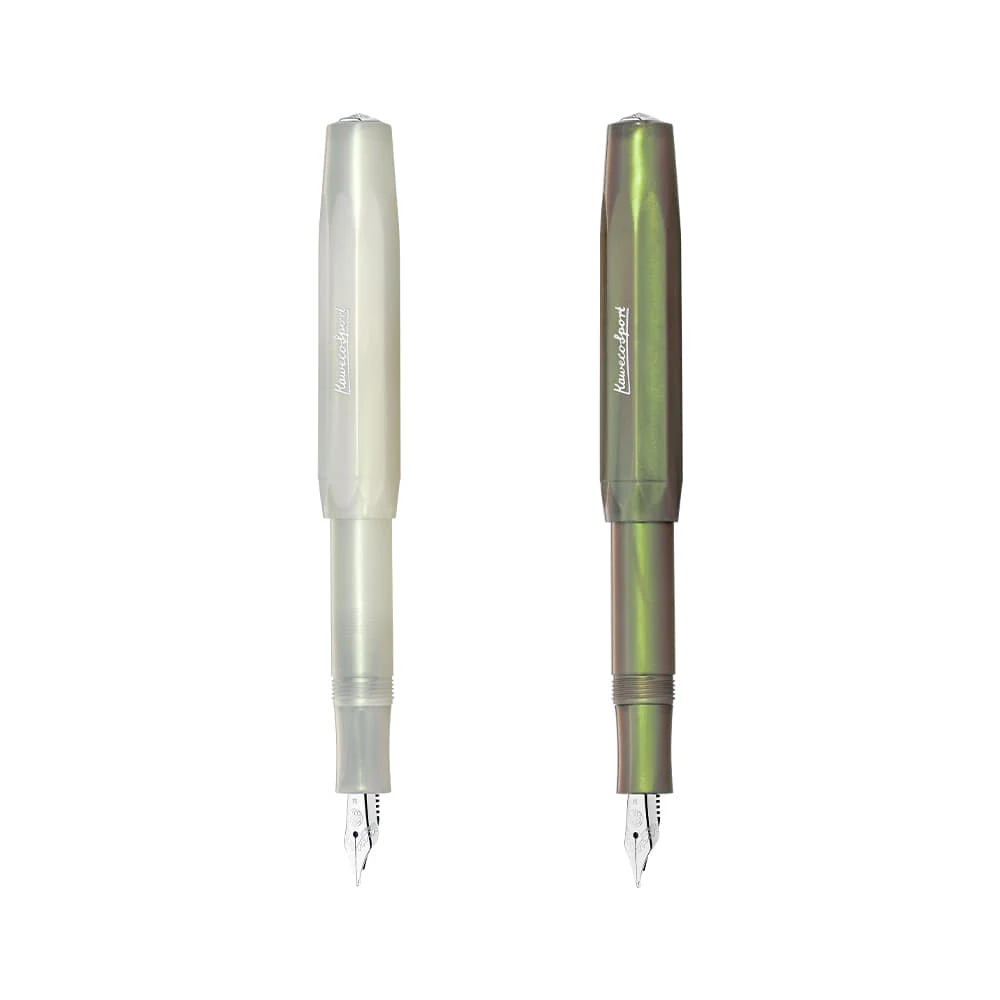
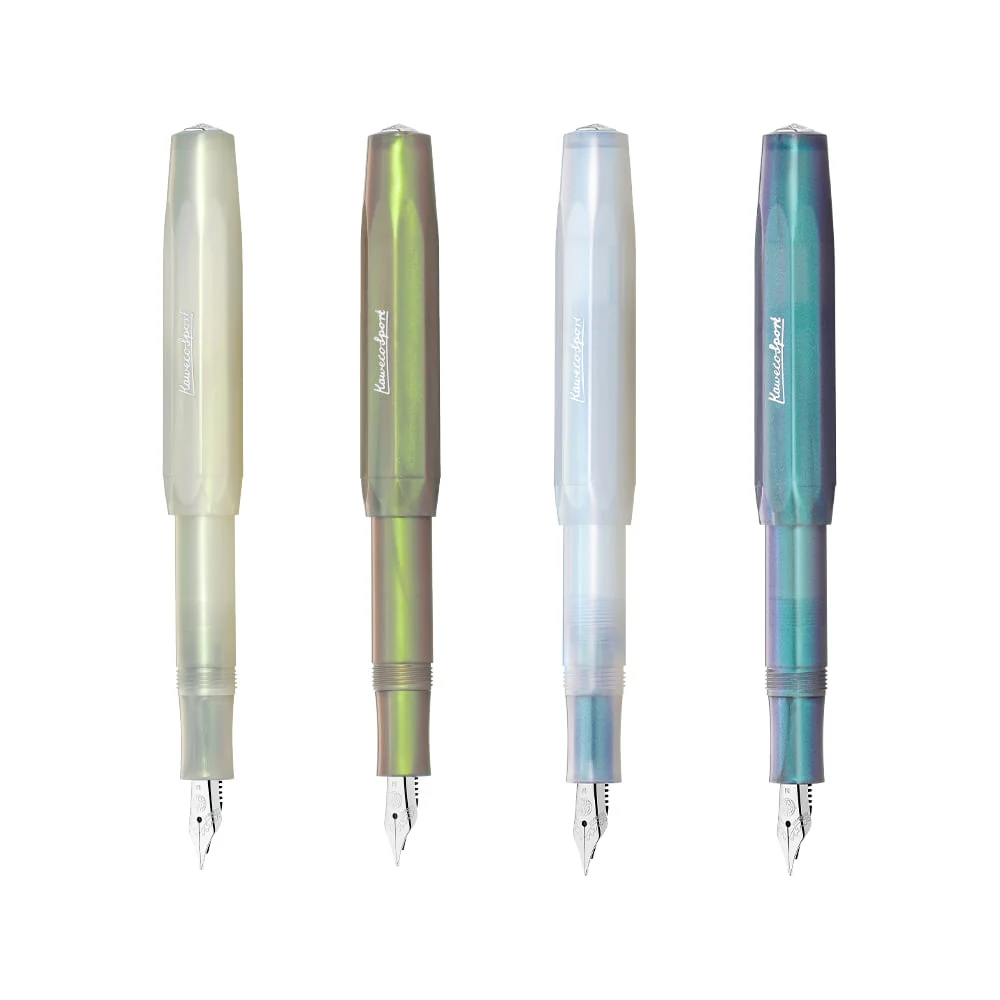
Sync official BlueBlack product images

diff --git a/guide/data/product-images.js b/guide/data/product-images.js
@@ -2,15 +2,15 @@
 // Do not edit image paths manually; update the product URL and rerun the workflow.
 export const productImages={
   "aurora-optima-pearl":{src:"./assets/products/aurora-optima-pearl.webp",source:"https://blueblack.co.kr/web/product/big/202607/5e9f6ba99f0f743b22528ecfaadd2935.jpg",gallery:["./assets/products/aurora-optima-pearl.webp","./assets/products/aurora-optima-pearl-2.webp","./assets/products/aurora-optima-pearl-3.webp"],alt:"오로라 옵티마 만년필 펄 996-LOT"},
-  "cross-foundry":{src:"./assets/products/cross-foundry.webp",source:"https://blueblack.co.kr/web/product/big/202606/08fff008ec65d819028061ff9c4d4f51.jpg",gallery:["./assets/products/cross-foundry.webp","./assets/products/cross-foundry-2.webp","./assets/products/cross-foundry-3.webp"],alt:"크로스 파운드리 만년필"},
-  "esterbrook-crane":{src:"./assets/products/esterbrook-crane.webp",source:"https://blueblack.co.kr/web/product/big/202607/8ad0a454fc0399270c3507e9e22b7dc7.jpg",gallery:["./assets/products/esterbrook-crane.webp","./assets/products/esterbrook-crane-2.webp"],alt:"에스터브룩 에스티 만년필 크레인 마리너"},
+  "cross-foundry":{src:"./assets/products/cross-foundry.webp",source:"https://blueblack.co.kr/web/product/big/202608/a82e5a6de9ca6d9bfcdefb268171e13c.jpg",gallery:["./assets/products/cross-foundry.webp","./assets/products/cross-foundry-2.webp","./assets/products/cross-foundry-3.webp"],alt:"크로스 파운드리 만년필"},
+  "esterbrook-crane":{src:"./assets/products/esterbrook-crane.webp",source:"https://blueblack.co.kr/web/product/big/202607/2cb7b868ceb65d1a161a8f494fa840f8.jpg",gallery:["./assets/products/esterbrook-crane.webp","./assets/products/esterbrook-crane-2.webp"],alt:"에스터브룩 에스티 만년필 크레인 마리너"},
   "esterbrook-estie":{src:"./assets/products/esterbrook-estie.webp",source:"https://blueblack.co.kr/web/product/big/202607/26be8e7c058a0f8fe143575989db057a.jpg",gallery:["./assets/products/esterbrook-estie.webp","./assets/products/esterbrook-estie-2.webp"],alt:"에스터브룩 에스티 만년필"},
   "esterbrook-estie-evergreen":{src:"./assets/products/esterbrook-estie-evergreen.webp",source:"https://blueblack.co.kr/web/product/big/202607/d2db5722117d00969b4c7d049ddc3b24.jpg",gallery:["./assets/products/esterbrook-estie-evergreen.webp","./assets/products/esterbrook-estie-evergreen-2.webp"],alt:"에스터브룩 에스티 만년필 에버그린"},
   "esterbrook-jr-pocket":{src:"./assets/products/esterbrook-jr-pocket.webp",source:"https://blueblack.co.kr/web/product/big/202606/39f155652b56401e9178e9cb379f4e63.jpg",gallery:["./assets/products/esterbrook-jr-pocket.webp","./assets/products/esterbrook-jr-pocket-2.webp"],alt:"에스터브룩 JR 포켓 만년필"},
   "faber-ambition-walnut":{src:"./assets/products/faber-ambition-walnut.webp",source:"https://blueblack.co.kr/web/product/big/202604/2da3318f552e82fc76bd105057dd0318.jpg",gallery:["./assets/products/faber-ambition-walnut.webp","./assets/products/faber-ambition-walnut-2.webp","./assets/products/faber-ambition-walnut-3.webp","./assets/products/faber-ambition-walnut-4.webp"],alt:"파버카스텔 엠비션 만년필 월넛우드"},
-  "kaweco-al-piston":{src:"./assets/products/kaweco-al-piston.webp",source:"https://blueblack.co.kr/web/product/big/202606/a663b9cb98e9b697245bdd249e60011d.jpg",gallery:["./assets/products/kaweco-al-piston.webp","./assets/products/kaweco-al-piston-2.webp","./assets/products/kaweco-al-piston-3.webp"],alt:"카웨코 알 스포츠 피스톤 필러 만년필 네이비"},
-  "kaweco-diy-glow":{src:"./assets/products/kaweco-diy-glow.webp",source:"https://blueblack.co.kr/web/product/big/202606/8b6ca6ec51936ba19050b6a7bd7dbd56.jpg",gallery:["./assets/products/kaweco-diy-glow.webp","./assets/products/kaweco-diy-glow-2.webp"],alt:"카웨코 스포츠 DIY 글로우 만년필"},
-  "kaweco-sport-luna":{src:"./assets/products/kaweco-sport-luna.webp",source:"https://blueblack.co.kr/web/product/big/202606/484ae850ba4521ab2547018933ece332.jpg",gallery:["./assets/products/kaweco-sport-luna.webp","./assets/products/kaweco-sport-luna-2.webp"],alt:"카웨코 스포츠 루나 만년필"},
+  "kaweco-al-piston":{src:"./assets/products/kaweco-al-piston.webp",source:"https://blueblack.co.kr/web/product/big/202607/f846bc22c07b841112bd65664efaebce.jpg",gallery:["./assets/products/kaweco-al-piston.webp","./assets/products/kaweco-al-piston-2.webp","./assets/products/kaweco-al-piston-3.webp"],alt:"카웨코 알 스포츠 피스톤 필러 만년필 네이비"},
+  "kaweco-diy-glow":{src:"./assets/products/kaweco-diy-glow.webp",source:"https://blueblack.co.kr/web/product/big/202608/4050d0f3b9da1da96c96aef9ccf54c0b.jpg",gallery:["./assets/products/kaweco-diy-glow.webp","./assets/products/kaweco-diy-glow-2.webp"],alt:"카웨코 스포츠 DIY 글로우 만년필"},
+  "kaweco-sport-luna":{src:"./assets/products/kaweco-sport-luna.webp",source:"https://blueblack.co.kr/web/product/big/202607/367e18227149822cca2a046721078f6c.jpg",gallery:["./assets/products/kaweco-sport-luna.webp","./assets/products/kaweco-sport-luna-2.webp"],alt:"카웨코 스포츠 루나 만년필"},
   "lamy-alstar-pine":{src:"./assets/products/lamy-alstar-pine.webp",source:"https://blueblack.co.kr/web/product/big/202606/b98bad97d913227f3a557426767a015a.jpg",gallery:["./assets/products/lamy-alstar-pine.webp","./assets/products/lamy-alstar-pine-2.webp","./assets/products/lamy-alstar-pine-3.webp","./assets/products/lamy-alstar-pine-4.webp"],alt:"라미 알스타 만년필 파인"},
   "lamy-cp1-aquamarine":{src:"./assets/products/lamy-cp1-aquamarine.webp",source:"https://blueblack.co.kr/web/product/big/202606/82c423e5483c31a25c8b4e82a11e79e5.jpg",gallery:["./assets/products/lamy-cp1-aquamarine.webp","./assets/products/lamy-cp1-aquamarine-2.webp","./assets/products/lamy-cp1-aquamarine-3.webp","./assets/products/lamy-cp1-aquamarine-4.webp"],alt:"라미 CP1 만년필 아쿠아마린"},
   "lamy-safari":{src:"./assets/products/lamy-safari.webp",source:"https://blueblack.co.kr/web/product/big/202605/2d27acfb31af1582063f417a435b4bb8.jpg",gallery:["./assets/products/lamy-safari.webp","./assets/products/lamy-safari-2.webp","./assets/products/lamy-safari-3.webp","./assets/products/lamy-safari-4.webp"],alt:"라미 사파리 만년필"},
@@ -24,9 +24,9 @@ export const productImages={
   "pelikan-m205":{src:"./assets/products/pelikan-m205.webp",source:"https://blueblack.co.kr/web/product/big/202606/39a740b289163c2cdf75759fc21f1c94.jpg",gallery:["./assets/products/pelikan-m205.webp","./assets/products/pelikan-m205-2.webp","./assets/products/pelikan-m205-3.webp","./assets/products/pelikan-m205-4.webp"],alt:"펠리칸 클래식 M205 만년필 마블블루"},
   "pelikan-m400":{src:"./assets/products/pelikan-m400.webp",source:"https://blueblack.co.kr/web/product/big/202606/92bb75b29e51555f5d6288b27fad2e94.jpg",gallery:["./assets/products/pelikan-m400.webp","./assets/products/pelikan-m400-2.webp","./assets/products/pelikan-m400-3.webp","./assets/products/pelikan-m400-4.webp"],alt:"펠리칸 소버란 M400 만년필"},
   "pelikan-m600-art3":{src:"./assets/products/pelikan-m600-art3.webp",source:"https://blueblack.co.kr/web/product/big/202606/7be58115cbb71526ee60299506750d05.jpg",gallery:["./assets/products/pelikan-m600-art3.webp","./assets/products/pelikan-m600-art3-2.webp","./assets/products/pelikan-m600-art3-3.webp","./assets/products/pelikan-m600-art3-4.webp"],alt:"펠리칸 소버란 M600 만년필 아트 컬렉션 3"},
-  "pelikan-m805-stresemann":{src:"./assets/products/pelikan-m805-stresemann.webp",source:"https://blueblack.co.kr/web/product/big/202606/492dc661514e8c01c64e82ee355e0c7e.jpg",gallery:["./assets/products/pelikan-m805-stresemann.webp","./assets/products/pelikan-m805-stresemann-2.webp","./assets/products/pelikan-m805-stresemann-3.webp","./assets/products/pelikan-m805-stresemann-4.webp"],alt:"펠리칸 소버란 M805 만년필 슈트라제만"},
+  "pelikan-m805-stresemann":{src:"./assets/products/pelikan-m805-stresemann.webp",source:"https://blueblack.co.kr/web/product/big/202607/efc027f6c06e0048006102e523e41231.jpg",gallery:["./assets/products/pelikan-m805-stresemann.webp","./assets/products/pelikan-m805-stresemann-2.webp","./assets/products/pelikan-m805-stresemann-3.webp","./assets/products/pelikan-m805-stresemann-4.webp"],alt:"펠리칸 소버란 M805 만년필 슈트라제만"},
   "pilot-custom-urushi-blue":{src:"./assets/products/pilot-custom-urushi-blue.webp",source:"https://blueblack.co.kr/web/product/big/202607/8aba4ab282089c924e170fc216615e9c.jpg",gallery:["./assets/products/pilot-custom-urushi-blue.webp","./assets/products/pilot-custom-urushi-blue-2.webp","./assets/products/pilot-custom-urushi-blue-3.webp","./assets/products/pilot-custom-urushi-blue-4.webp"],alt:"파이롯트 커스텀 우루시 만년필 18K 블루"},
-  "pilot-custom74":{src:"./assets/products/pilot-custom74.webp",source:"https://blueblack.co.kr/web/product/big/202607/892c5da4849285612c20c99583d5a481.jpg",gallery:["./assets/products/pilot-custom74.webp","./assets/products/pilot-custom74-2.webp","./assets/products/pilot-custom74-3.webp","./assets/products/pilot-custom74-4.webp"],alt:"파이롯트 커스텀 74 만년필"},
+  "pilot-custom74":{src:"./assets/products/pilot-custom74.webp",source:"https://blueblack.co.kr/web/product/big/202608/e31aea8b62af5a66e4637f1fa6797e54.jpg",gallery:["./assets/products/pilot-custom74.webp","./assets/products/pilot-custom74-2.webp","./assets/products/pilot-custom74-3.webp","./assets/products/pilot-custom74-4.webp"],alt:"파이롯트 커스텀 74 만년필"},
   "pilot-custom742":{src:"./assets/products/pilot-custom742.webp",source:"https://blueblack.co.kr/web/product/big/202607/4bb52bb8d3fe6e9f948e2850dbc5bb66.jpg",gallery:["./assets/products/pilot-custom742.webp","./assets/products/pilot-custom742-2.webp","./assets/products/pilot-custom742-3.webp","./assets/products/pilot-custom742-4.webp"],alt:"파이롯트 커스텀 742 만년필 블랙"},
   "pilot-custom743":{src:"./assets/products/pilot-custom743.webp",source:"https://blueblack.co.kr/web/product/big/202607/bae85e6e5e09cabb33c34343258ca9fc.jpg",gallery:["./assets/products/pilot-custom743.webp","./assets/products/pilot-custom743-2.webp","./assets/products/pilot-custom743-3.webp","./assets/products/pilot-custom743-4.webp"],alt:"파이롯트 커스텀 743 만년필 블랙"},
   "pilot-custom845":{src:"./assets/products/pilot-custom845.webp",source:"https://blueblack.co.kr/web/product/big/202607/c6c7d7316ddf7d79e9d3609b9d2c6ea3.jpg",gallery:["./assets/products/pilot-custom845.webp","./assets/products/pilot-custom845-2.webp","./assets/products/pilot-custom845-3.webp","./assets/products/pilot-custom845-4.webp"],alt:"파이롯트 커스텀 845 만년필 블랙"},
